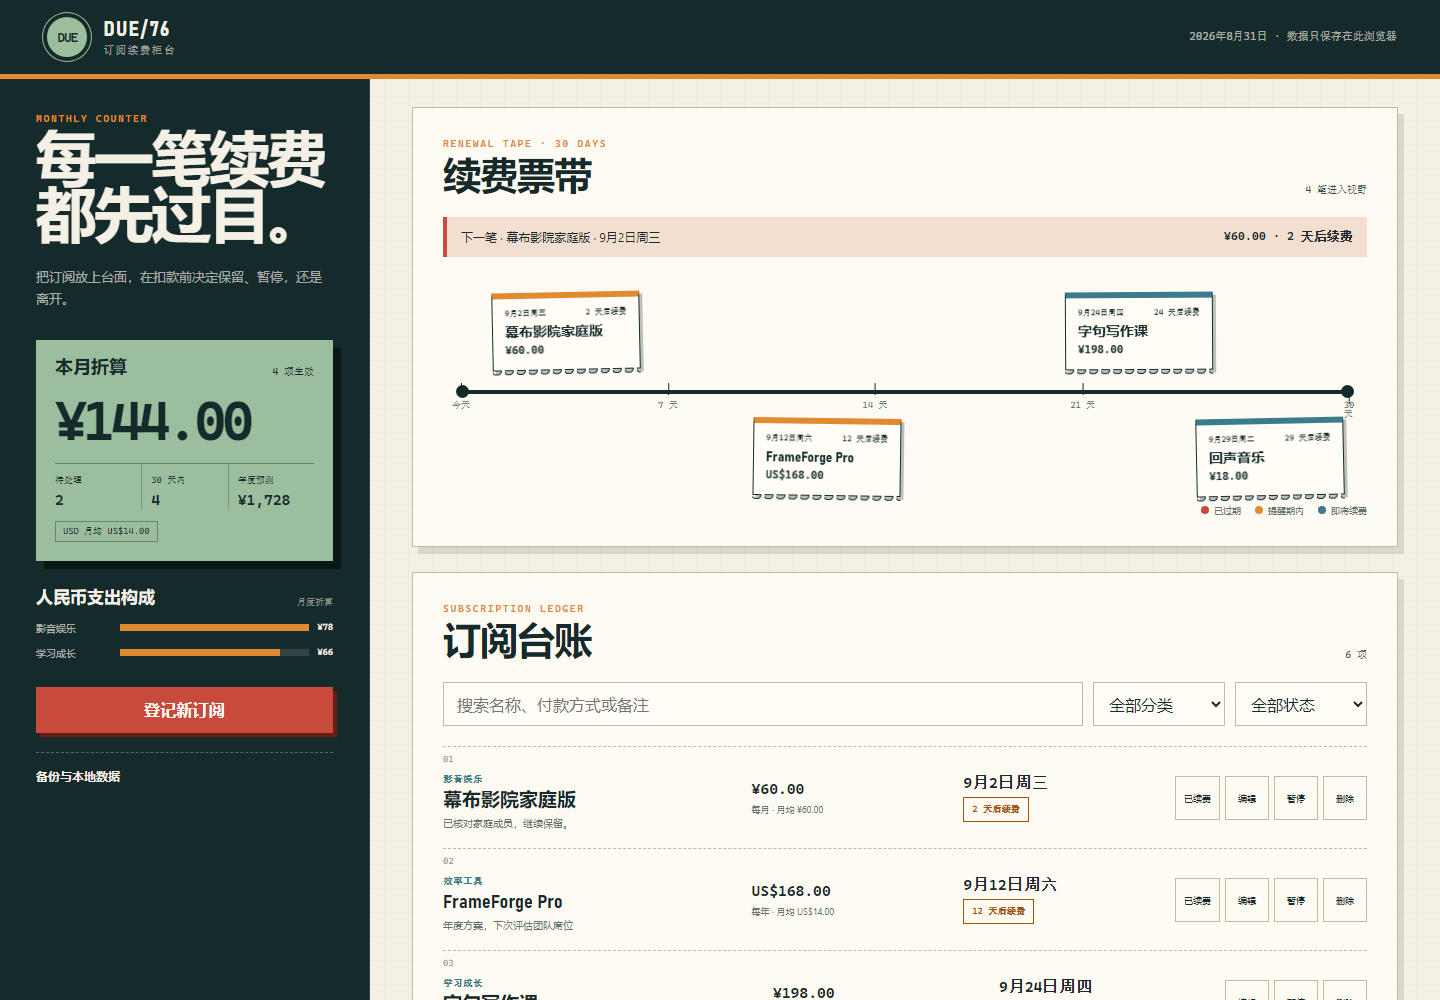
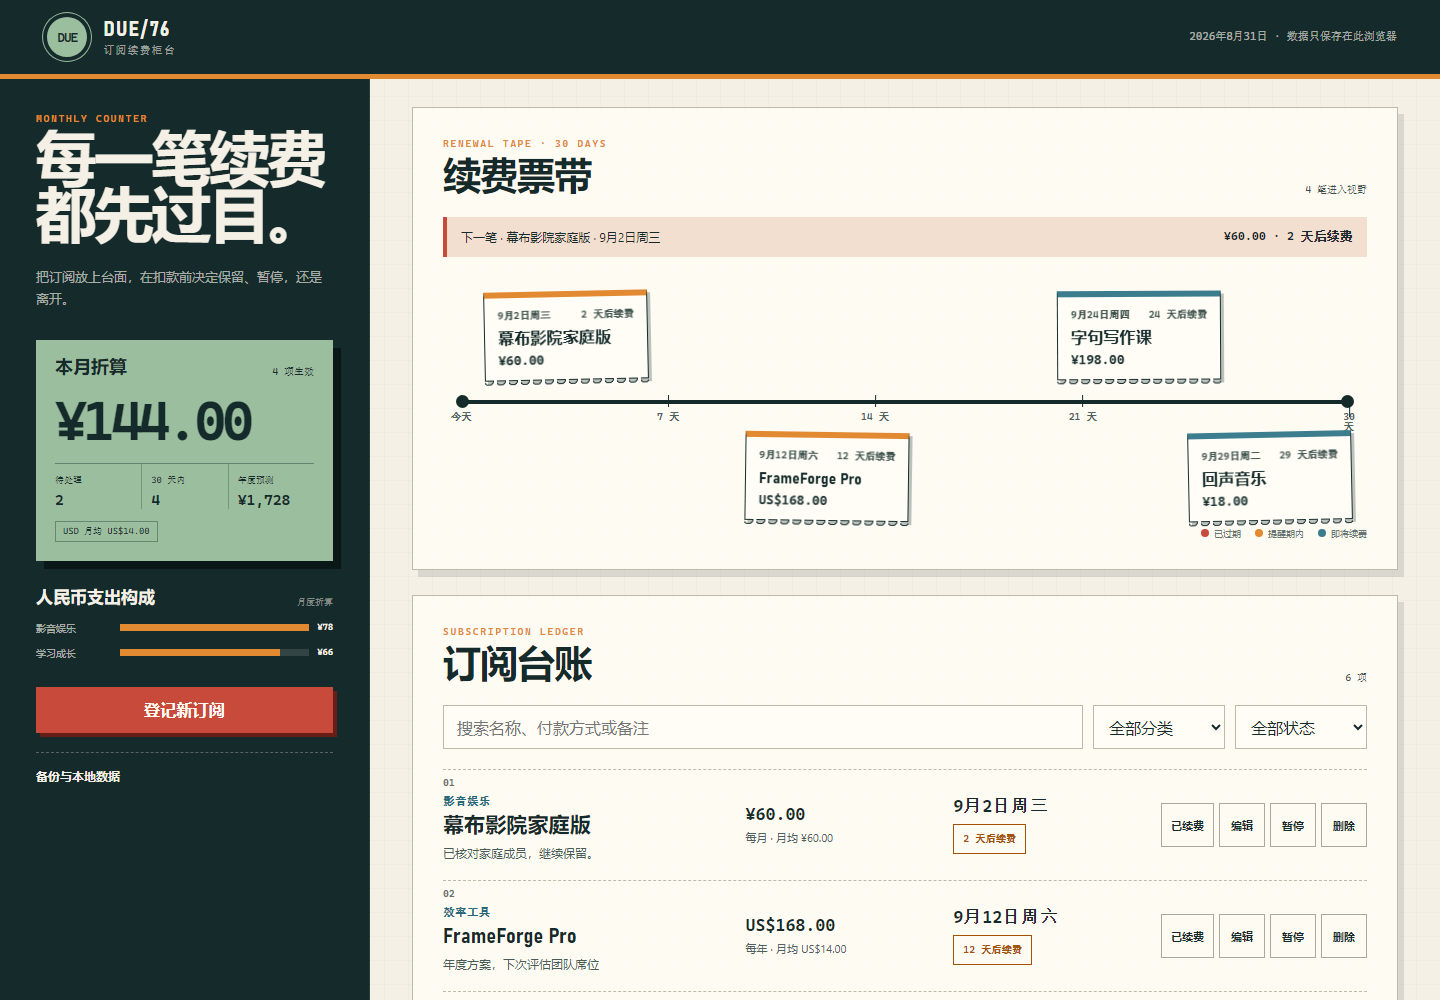
fix: improve app 076 card readability

diff --git a/apps/076-subscription-manager/styles.css b/apps/076-subscription-manager/styles.css
@@ -128,20 +128,20 @@ button:focus-visible, input:focus-visible, select:focus-visible, textarea:focus-
 .next-callout strong { font-family: var(--mono); }
 
 .tape-scroll { margin-top: 25px; overflow-x: auto; overflow-y: hidden; scrollbar-color: var(--mint) transparent; }
-.renewal-tape { position: relative; min-width: 760px; height: 225px; margin: 0 18px; }
-.tape-line { position: absolute; top: 111px; right: 0; left: 0; height: 4px; background: var(--ink); }
+.renewal-tape { position: relative; min-width: 760px; height: 248px; margin: 0 18px; }
+.tape-line { position: absolute; top: 121px; right: 0; left: 0; height: 4px; background: var(--ink); }
 .tape-line::before, .tape-line::after { content: ""; position: absolute; top: -5px; width: 13px; height: 13px; border-radius: 50%; background: var(--ink); }
 .tape-line::before { left: -5px; }.tape-line::after { right: -5px; }
-.tape-ticks span { position: absolute; top: 122px; left: var(--tick); color: #66736e; font: 9px/1 var(--mono); transform: translateX(-50%); }
+.tape-ticks span { position: absolute; top: 133px; left: var(--tick); color: #4f615c; font: 700 10px/1 var(--mono); transform: translateX(-50%); }
 .tape-ticks span::before { content: ""; position: absolute; bottom: 15px; left: 50%; width: 1px; height: 12px; background: var(--ink); }
 .timeline-ticket {
   position: absolute;
   top: var(--lane);
   left: var(--position);
   z-index: 2;
-  width: 148px;
-  min-height: 78px;
-  padding: 11px 12px 9px;
+  width: 164px;
+  min-height: 88px;
+  padding: 12px 13px 11px;
   border: 1px solid var(--ink);
   color: var(--ink);
   background: var(--paper-bright);
@@ -153,9 +153,9 @@ button:focus-visible, input:focus-visible, select:focus-visible, textarea:focus-
 .timeline-ticket[data-state="due"] { border-top: 6px solid var(--orange); }
 .timeline-ticket[data-state="upcoming"] { border-top: 6px solid var(--blue); }
 .timeline-ticket button { width: 100%; padding: 0; border: 0; color: inherit; background: transparent; text-align: left; }
-.ticket-date { display: flex; justify-content: space-between; gap: 8px; font: 8px/1 var(--mono); text-transform: uppercase; }
-.timeline-ticket strong { margin: 8px 0 5px; display: block; overflow: hidden; font: 850 14px/1 var(--display); text-overflow: ellipsis; white-space: nowrap; }
-.timeline-ticket b { display: block; font: 700 11px/1 var(--mono); }
+.ticket-date { display: flex; justify-content: space-between; gap: 8px; color: #3e514c; font: 750 10px/1.25 var(--mono); text-transform: uppercase; }
+.timeline-ticket strong { margin: 8px 0 6px; display: block; overflow: hidden; font: 900 16px/1.1 var(--display); letter-spacing: .01em; text-overflow: ellipsis; white-space: nowrap; }
+.timeline-ticket b { display: block; font: 800 13px/1.15 var(--mono); }
 .empty-state { min-height: 148px; display: flex; align-items: center; justify-content: center; gap: 20px; text-align: left; }
 .empty-state[hidden] { display: none; }
 .empty-state p { margin: 5px 0 0; color: #6b746f; font-size: 12px; }
@@ -178,16 +178,16 @@ button:focus-visible, input:focus-visible, select:focus-visible, textarea:focus-
   align-items: center;
   border-top: 1px dashed var(--line);
 }
-.subscription-card::before { content: attr(data-index); color: #9b998e; font: 9px/1 var(--mono); position: absolute; top: 8px; left: 0; }
-.subscription-card h3 { margin: 5px 0 6px; font: 850 19px/1 var(--display); }
-.card-category { color: var(--blue); font: 750 9px/1 var(--mono); letter-spacing: .08em; text-transform: uppercase; }
-.card-note { max-width: 330px; margin: 0; overflow: hidden; color: #66736e; font-size: 10px; text-overflow: ellipsis; white-space: nowrap; }
-.card-money strong, .card-renewal strong { display: block; font: 800 15px/1.2 var(--mono); }
-.card-money span, .card-renewal span { margin-top: 5px; display: block; color: #68746f; font-size: 9px; }
-.status-badge { display: inline-flex !important; width: fit-content; min-height: 25px; padding: 0 8px; align-items: center; border: 1px solid currentColor; font: 750 9px/1 var(--mono) !important; }
+.subscription-card::before { content: attr(data-index); color: #686f6a; font: 700 10px/1 var(--mono); position: absolute; top: 8px; left: 0; }
+.subscription-card h3 { margin: 6px 0 7px; font: 900 21px/1.08 var(--display); letter-spacing: .005em; }
+.card-category { color: #246879; font: 800 11px/1.2 var(--mono); letter-spacing: .06em; text-transform: uppercase; }
+.card-note { max-width: 360px; margin: 0; overflow: hidden; color: #485b56; display: -webkit-box; font-size: 12px; line-height: 1.45; -webkit-box-orient: vertical; -webkit-line-clamp: 2; }
+.card-money strong, .card-renewal strong { display: block; font: 850 17px/1.25 var(--mono); }
+.card-money span, .card-renewal span { margin-top: 6px; display: block; color: #4f615c; font-size: 11px; line-height: 1.35; }
+.status-badge { display: inline-flex !important; width: fit-content; min-height: 30px; padding: 0 9px; align-items: center; border: 1px solid currentColor; font: 800 10px/1 var(--mono) !important; }
 .status-overdue { color: var(--red) !important; }.status-due { color: #a55200 !important; }.status-upcoming { color: var(--blue) !important; }.status-later { color: var(--ink-soft) !important; }.status-paused { color: #77766e !important; }
 .card-actions { display: flex; justify-content: flex-end; gap: 5px; flex-wrap: wrap; }
-.card-actions button { min-width: 44px; min-height: 44px; padding: 0 8px; border: 1px solid var(--line); background: transparent; font-size: 9px; }
+.card-actions button { min-width: 46px; min-height: 44px; padding: 0 9px; border: 1px solid #a9aa9d; background: transparent; font-size: 11px; font-weight: 750; }
 .card-actions button:hover { border-color: var(--ink); background: var(--paper); }
 .ledger-empty { padding: 44px 20px 24px; text-align: center; border-top: 1px dashed var(--line); }
 .ledger-empty[hidden] { display: none; }
@@ -259,7 +259,7 @@ footer { min-height: 58px; padding: 0 clamp(18px, 3vw, 46px); display: flex; ali
   .renewal-tape { min-width: 0; height: auto; margin: 0; }
   .tape-line, .tape-ticks { display: none; }
   .timeline-tickets { margin-top: 18px; display: grid; gap: 12px; }
-  .timeline-ticket { position: relative; top: auto !important; left: auto !important; width: 100%; min-height: 74px; transform: none !important; }
+  .timeline-ticket { position: relative; top: auto !important; left: auto !important; width: 100%; min-height: 88px; transform: none !important; }
   .timeline-ticket button { display: grid; grid-template-columns: 1fr auto; gap: 4px 12px; align-items: center; }
   .timeline-ticket .ticket-date { grid-column: 1 / -1; }
   .timeline-ticket strong { margin: 4px 0 2px; }

diff --git a/apps/076-subscription-manager/app.js b/apps/076-subscription-manager/app.js
@@ -144,7 +144,7 @@
       const position = 6 + (Math.max(0, Math.min(30, item.days)) / 30) * 88;
       ticket.dataset.state = state.key;
       ticket.style.setProperty('--position', `${position}%`);
-      ticket.style.setProperty('--lane', `${index % 2 === 0 ? 13 : 139}px`);
+      ticket.style.setProperty('--lane', `${index % 2 === 0 ? 12 : 153}px`);
       ticket.style.setProperty('--tilt', `${index % 3 === 0 ? -1.2 : index % 3 === 1 ? .8 : -.3}deg`);
       ticket.style.setProperty('--order', String(index));
       const button = createElement('button');
